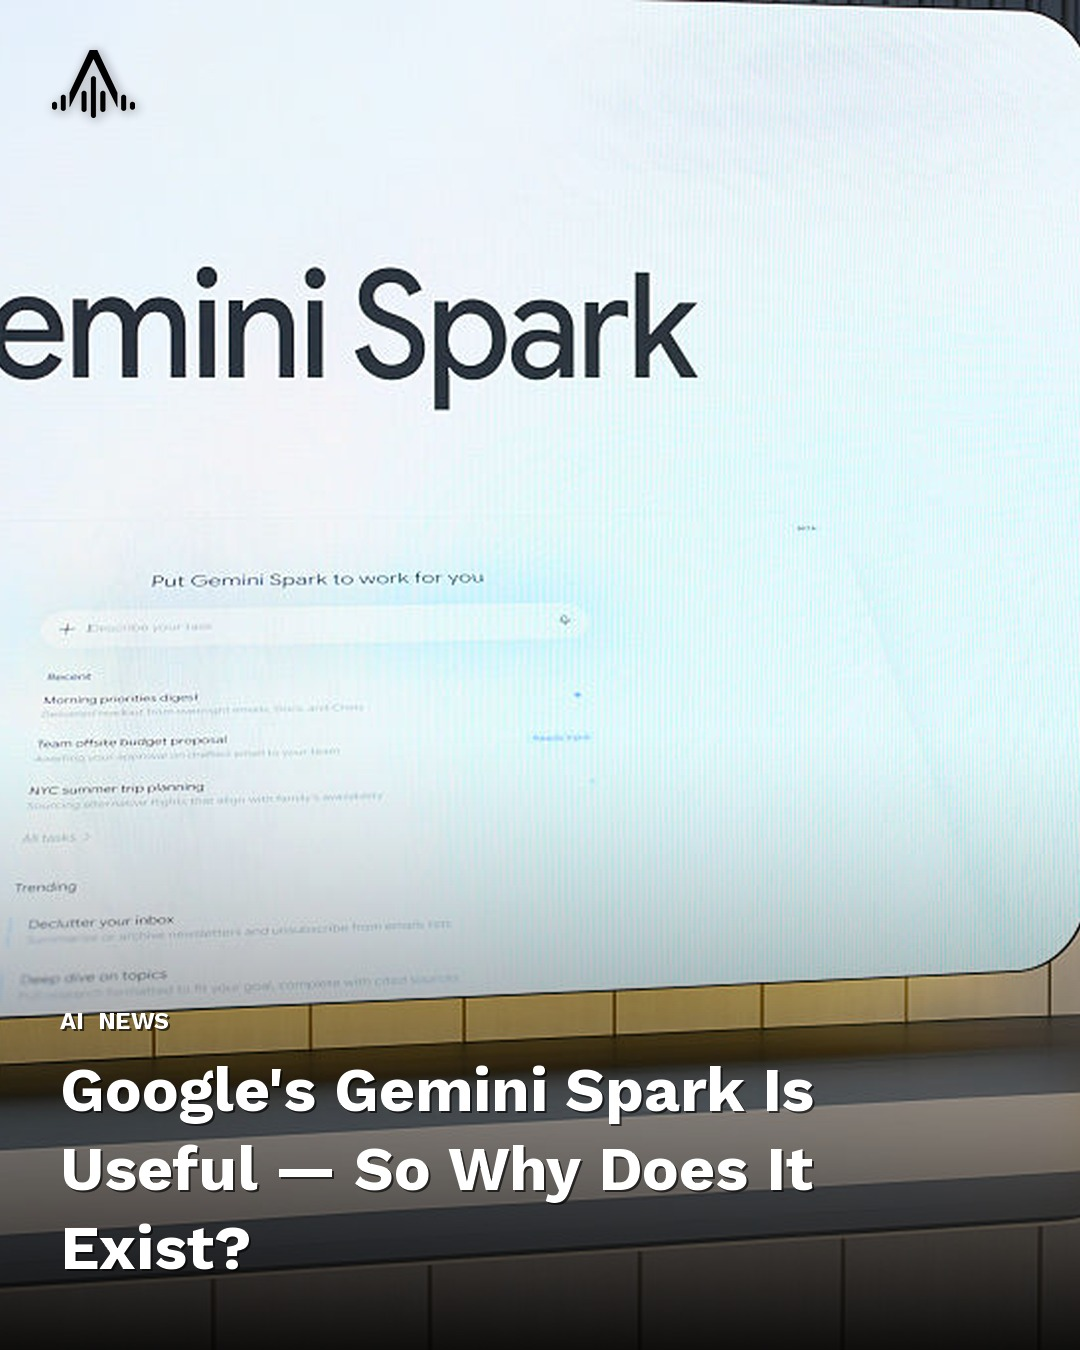
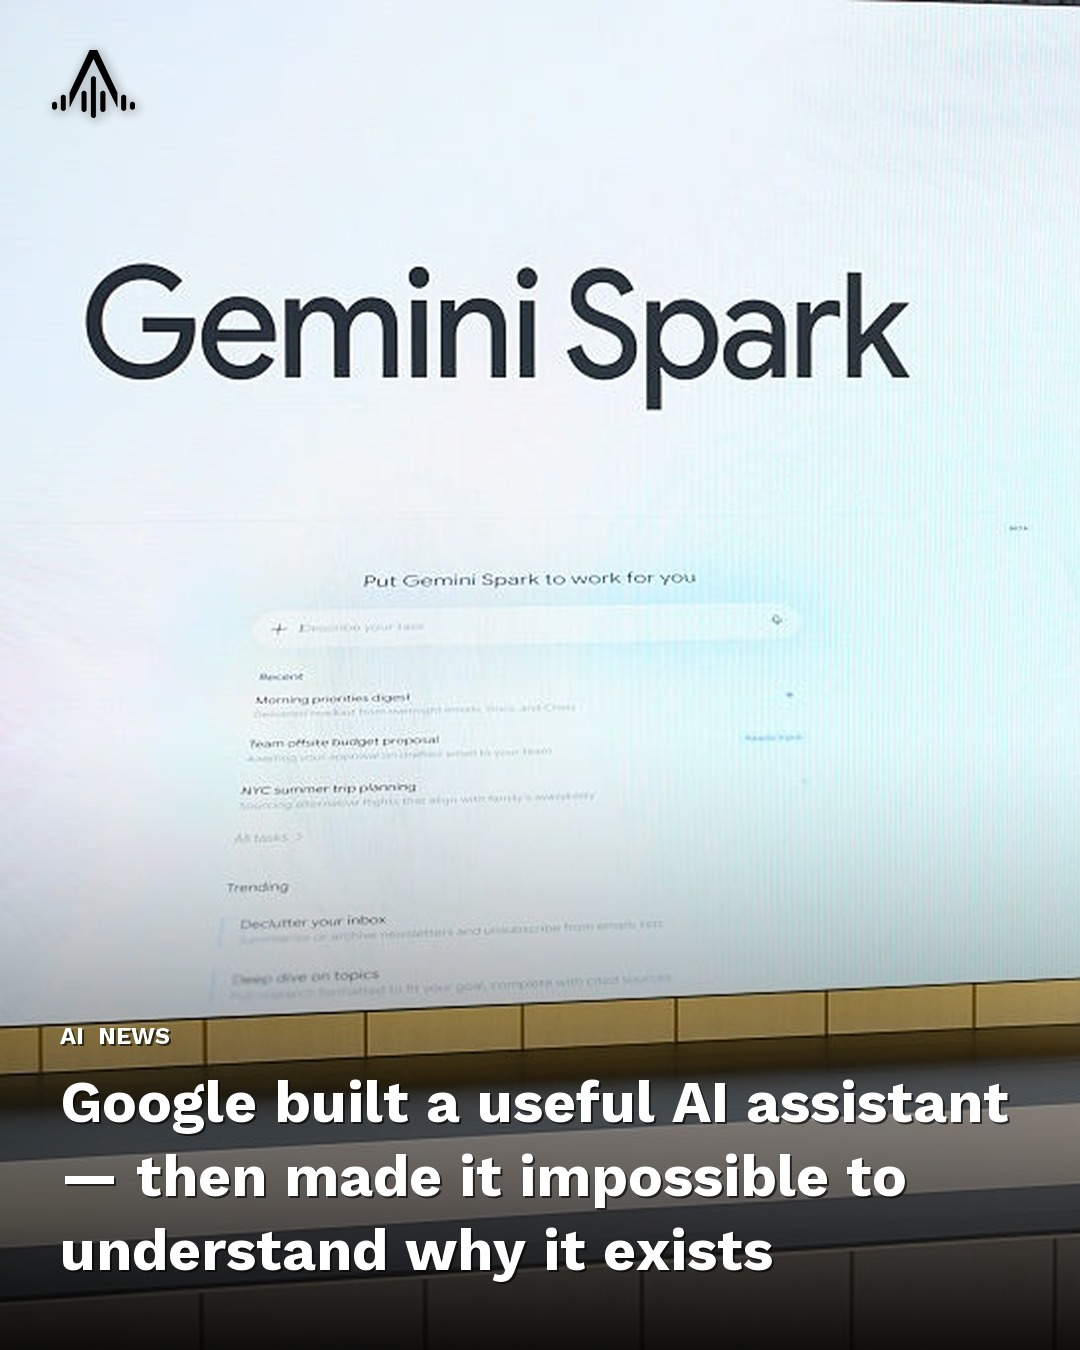
Add --focus flag to swap_cover.py for manual crop override; fix May 30 Gemini Spark cover

diff --git a/scripts/instagram/swap_cover.py b/scripts/instagram/swap_cover.py
@@ -9,6 +9,7 @@ Examples:
     python scripts/instagram/swap_cover.py 2026-05-26-images 01_india-gig-workers alt-1
     python scripts/instagram/swap_cover.py 2026-05-26-images 03_umg-tiktok /tmp/better-photo.jpg
 """
+import argparse
 import re
 import shutil
 import sys
@@ -37,11 +38,31 @@ def _title_from_caption(caption_path: Path, folder_name: str) -> str:
 
 
 def main() -> None:
-    if len(sys.argv) < 4:
-        print(__doc__)
-        sys.exit(1)
+    parser = argparse.ArgumentParser(description="Swap hero image and regenerate cover")
+    parser.add_argument("date_folder", help="e.g. 2026-05-30-images")
+    parser.add_argument("article_folder", help="e.g. 02_google-s-gemini-spark-...")
+    parser.add_argument("source", help="alt-1, alt-2, or absolute path to image")
+    parser.add_argument(
+        "--focus", metavar="X,Y",
+        help="Manual crop center as percentages 0-100. Y defaults to 40 if omitted.",
+    )
+    args = parser.parse_args()
 
-    date_folder, article_folder, source_arg = sys.argv[1], sys.argv[2], sys.argv[3]
+    date_folder, article_folder, source_arg = args.date_folder, args.article_folder, args.source
+
+    focus = None
+    if args.focus:
+        parts = args.focus.split(",")
+        try:
+            if len(parts) == 1:
+                focus = (float(parts[0]), 40.0)
+            elif len(parts) == 2:
+                focus = (float(parts[0]), float(parts[1]))
+            else:
+                raise ValueError
+        except ValueError:
+            print("✗ --focus must be X or X,Y (e.g. --focus 70 or --focus 70,40)")
+            sys.exit(1)
 
     article_dir = REPO_ROOT / "downloads" / date_folder / article_folder
     if not article_dir.exists():
@@ -49,7 +70,9 @@ def main() -> None:
         sys.exit(1)
 
     # Resolve source image
-    if source_arg == "alt-1":
+    if source_arg == "hero":
+        src = article_dir / "hero.jpg"
+    elif source_arg == "alt-1":
         src = article_dir / "alt-1.jpg"
     elif source_arg == "alt-2":
         src = article_dir / "alt-2.jpg"
@@ -68,14 +91,17 @@ def main() -> None:
         shutil.copy2(hero_path, backup_path)
         print(f"✓ Backed up hero.jpg → hero.original.jpg")
 
-    shutil.copy2(src, hero_path)
-    print(f"✓ Replaced hero.jpg with {src.name}")
+    if src.resolve() != hero_path.resolve():
+        shutil.copy2(src, hero_path)
+        print(f"✓ Replaced hero.jpg with {src.name}")
+    else:
+        print(f"✓ Using existing hero.jpg")
 
     # Regenerate cover
     title = _title_from_caption(article_dir / "caption.md", article_folder)
     photo = Image.open(hero_path).convert("RGB")
     cover_path = article_dir / "cover.jpg"
-    logo_color, img_mode = generate_cover(photo, title, cover_path)
+    logo_color, img_mode = generate_cover(photo, title, cover_path, focus=focus)
     print(f"✓ Regenerated cover.jpg ({img_mode}, {logo_color} logo)")
     print(f"  Headline used: {title}")
 

diff --git a/scripts/instagram/image_utils.py b/scripts/instagram/image_utils.py
@@ -176,10 +176,11 @@ def detect_face_center(img: Image.Image) -> Optional[Tuple[int, int, int, int]]:
     return (x + w // 2, y + h // 2, w, h)
 
 
-def _make_bg_cover(photo: Image.Image, y_bias: float = 0.45) -> Tuple[Image.Image, str]:
+def _make_bg_cover(photo: Image.Image, y_bias: float = 0.45, focus: Optional[Tuple[int, int]] = None) -> Tuple[Image.Image, str]:
     """
     Scale photo to fill canvas, then crop.
-    Uses face-aware crop if a face is detected; falls back to y_bias center-crop.
+    If focus (fx_pct, fy_pct) is given, crops around that point (skipping face detection).
+    Otherwise uses face-aware crop if a face is detected; falls back to y_bias center-crop.
     Returns (cropped_image, crop_description).
     """
     tw, th = CANVAS_W, CANVAS_H
@@ -188,9 +189,14 @@ def _make_bg_cover(photo: Image.Image, y_bias: float = 0.45) -> Tuple[Image.Imag
     nw, nh = int(pw * scale), int(ph * scale)
     resized = photo.resize((nw, nh), Image.LANCZOS)
 
-    face = detect_face_center(resized)
-
-    if face is not None:
+    if focus is not None:
+        fx_pct, fy_pct = focus
+        crop_x = int(nw * fx_pct / 100) - tw // 2
+        crop_y = int(nh * fy_pct / 100) - th // 2
+        crop_x = max(0, min(crop_x, nw - tw))
+        crop_y = max(0, min(crop_y, nh - th))
+        desc = f"manual focus override: cropping centered at {fx_pct}%, {fy_pct}%"
+    elif (face := detect_face_center(resized)) is not None:
         fcx, fcy, fw, fh = face
         # Eye line ≈ top 30% of bounding box
         eye_y = (fcy - fh // 2) + int(fh * 0.3)
@@ -332,7 +338,8 @@ def _add_text_overlay(canvas: Image.Image, headline: str) -> Image.Image:
 
 
 def generate_cover(
-    photo: Image.Image, headline: str, out_path: Path
+    photo: Image.Image, headline: str, out_path: Path,
+    focus: Optional[Tuple[int, int]] = None,
 ) -> Tuple[str, str]:
     """
     Build 1080×1350 Instagram cover and save as JPEG.
@@ -344,7 +351,7 @@ def generate_cover(
         image_mode = "fit-width"
         print(f"    ultra-wide source — fit-width mode")
     else:
-        bg, crop_desc = _make_bg_cover(photo, y_bias=0.45)
+        bg, crop_desc = _make_bg_cover(photo, y_bias=0.45, focus=focus)
         image_mode = "cover-crop"
         print(f"    {crop_desc}")
 
